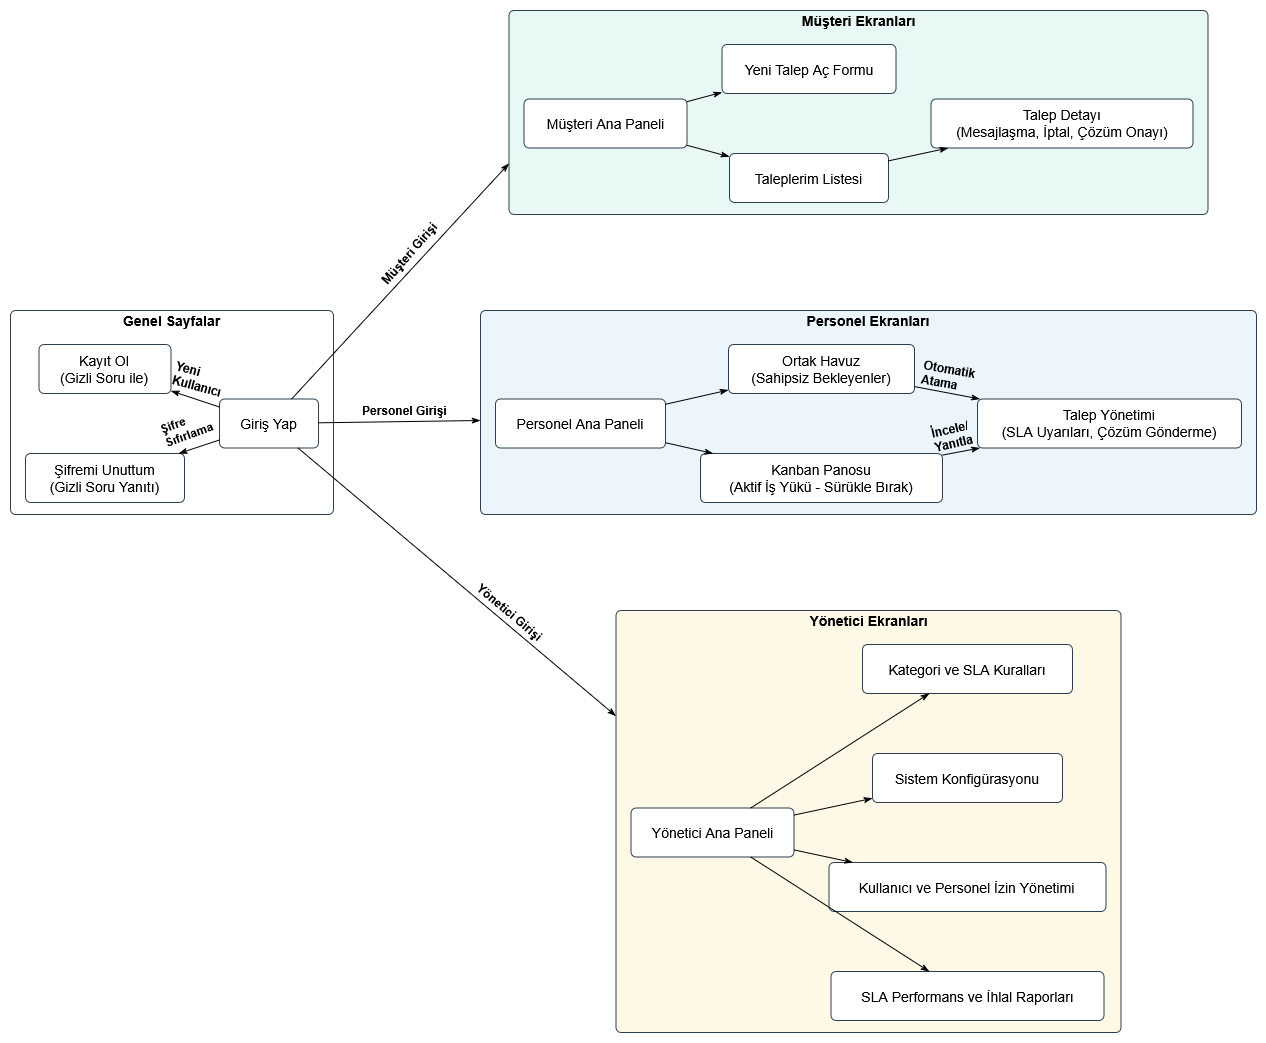
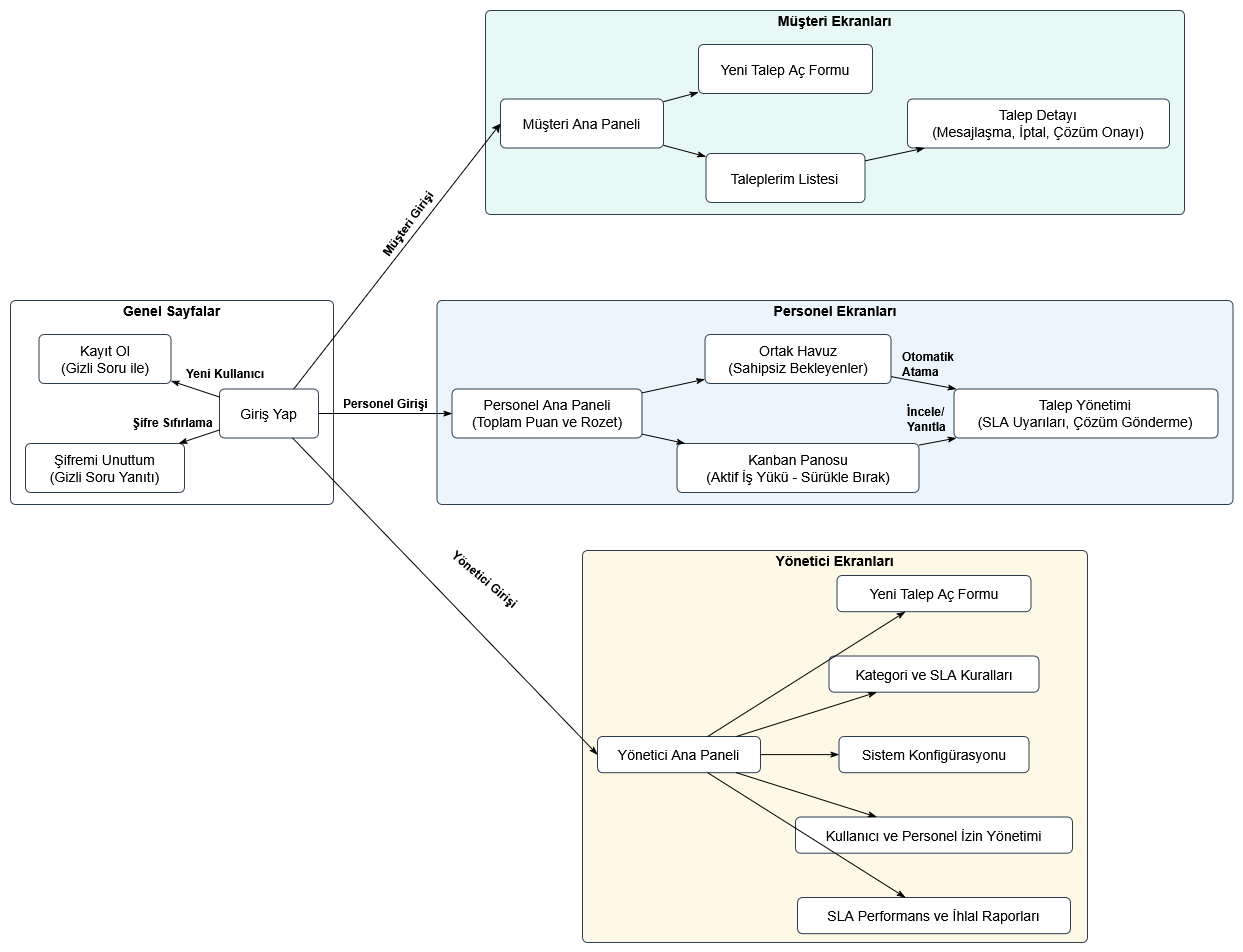
diyagramlar yenilendi

diff --git a/docs/srs.md b/docs/srs.md
@@ -57,14 +57,16 @@ Aşağıdaki özellikler **kapsam dışı** bırakılmıştır:
 *   **US-10:** Personel olarak, bir talebe metin olarak yanıt yazıp müşteriye iletebilmeliyim.
 *   **US-11:** Personel olarak, atanan biletler üzerindeki SLA geri sayımını dakika/saat cinsinden görebilmeliyim ki gecikmeleri önleyebileyim.
 *   **US-12:** Personel olarak, SLA süresi yaklaşan biletlerde renkli uyarılar alabilmeliyim ki önceliğimi buna göre belirleyebileyim.
+*   **US-13:** Personel olarak, çözdüğüm taleplerden puan kazanabileyim ki hem motive olabileyim hem de gösterdiğim çaba görsel olarak görünebilsin.
 
 **Yönetici Hikayeleri:**
-*   **US-13:** Yönetici olarak, sisteme yeni personel ve kategoriler ekleyebilmeliyim.
-*   **US-14:** Yönetici olarak, personel SLA ihlal oranlarını ve ortalama çözüm sürelerini detaylı bir rapor olarak görebilmeliyim.
-*   **US-15:** Yönetici olarak, destek kategorilerini ve bu kategorilerin varsayılan SLA kurallarını belirleyebilmeliyim.
-*   **US-16:** Yönetici olarak, resmi tatilleri tarih bazlı olarak sisteme girebilmeliyim ki SLA hesaplamaları doğru yapılsın.
-*   **US-17:** Yönetici olarak, geciken biletlerin) hangi üst personele otomatik devredileceğini seçebilmeliyim.
-*   **US-18:** Yönetici olarak, işletmemin çalışma günlerini) ve mesai saatlerini sisteme tanımlayabilmeliyim ki SLA hesaplamaları tamamen işletmeme özel yapılabilsin.
+*   **US-14:** Yönetici olarak, sisteme yeni personel ve kategoriler ekleyebilmeliyim.
+*   **US-15:** Yönetici olarak, personel SLA ihlal oranlarını ve ortalama çözüm sürelerini detaylı bir rapor olarak görebilmeliyim.
+*   **US-16:** Yönetici olarak, destek kategorilerini ve bu kategorilerin varsayılan SLA kurallarını belirleyebilmeliyim.
+*   **US-17:** Yönetici olarak, resmi tatilleri tarih bazlı olarak sisteme girebilmeliyim ki SLA hesaplamaları doğru yapılsın.
+*   **US-18:** Yönetici olarak, geciken biletlerin) hangi üst personele otomatik devredileceğini seçebilmeliyim.
+*   **US-19:** Yönetici olarak, işletmemin çalışma günlerini) ve mesai saatlerini sisteme tanımlayabilmeliyim ki SLA hesaplamaları tamamen işletmeme özel yapılabilsin.
+*   **US-20:** Yönetici olarak, sistem üzerinden yeni bir destek talebi açabilmeliyim ki işletme içi sorunları da havuza iletebileyim.
 
 ## 9. İşlevsel Gereksinimler (Functional Requirements - FR)
 
@@ -82,6 +84,8 @@ Aşağıdaki özellikler **kapsam dışı** bırakılmıştır:
 *   **FR-12:** Sistem, bilet çözüm işlemlerini kayıt altına almalı ve her personel için "SLA'ya uyum oranı" ve "Ortalama çözüm süresi" değerlerini hesaplayıp raporlamalıdır. (US-12)
 *   **FR-13:** Sistem, SLA hesaplamasında (FR-05) kod içine sabitlenmiş (hard-coded) saatler yerine, yöneticinin sistem ayarlarından girdiği dinamik mesai günlerini ve saatlerini veritabanından çekerek baz almalıdır. (US-16)
 *   **FR-14:** Sistem; bir bilet eskalasyona uğradığında yeni atanan personelin talebi inceleyebilmesi için veya SLA süresinin dolmasına çok az kala müşteri tarafından yeni bir yanıt/itiraz geldiğinde, mevcut SLA bitiş tarihine yöneticinin belirlediği standart bir ek süre otomatik olarak ilave etmelidir.
+*   **FR-15:** Sistem, bilet "Çözüldü" statüsüne geçtiğinde personele standart bir taban puan vermelidir. Bu puan; 1. denemede %100, 2. denemede %70, 3. denemede %40 oranında yansıtılmalı; eskalasyonla devredilen taleplerde ise asıl personele puan verilmemeli, devralan personele ise zorluk bonusu olarak %20 ekstra puan eklenmelidir.
+*   **FR-16:** Sistem, bilet oluşturma formuna yöneticilerin de erişebilmesine ve kendi oturumlarıyla bilet açabilmesine izin vermelidir.
 
 
 ## 10. İşlevsel Olmayan Gereksinimler (Non-Functional Requirements - NFR)
